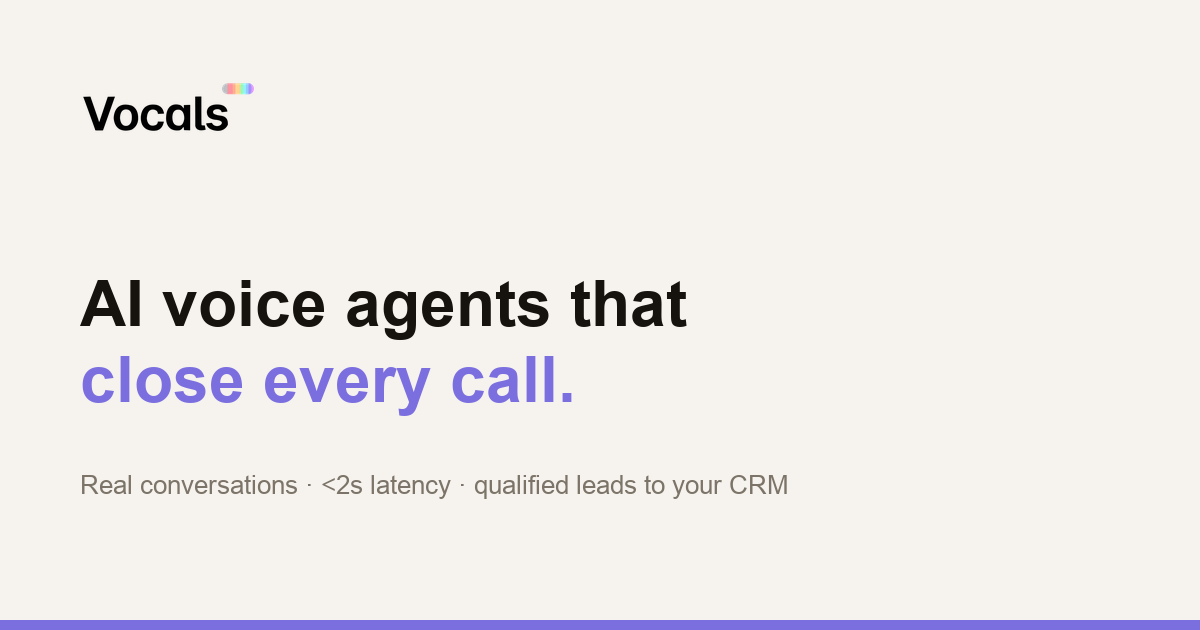
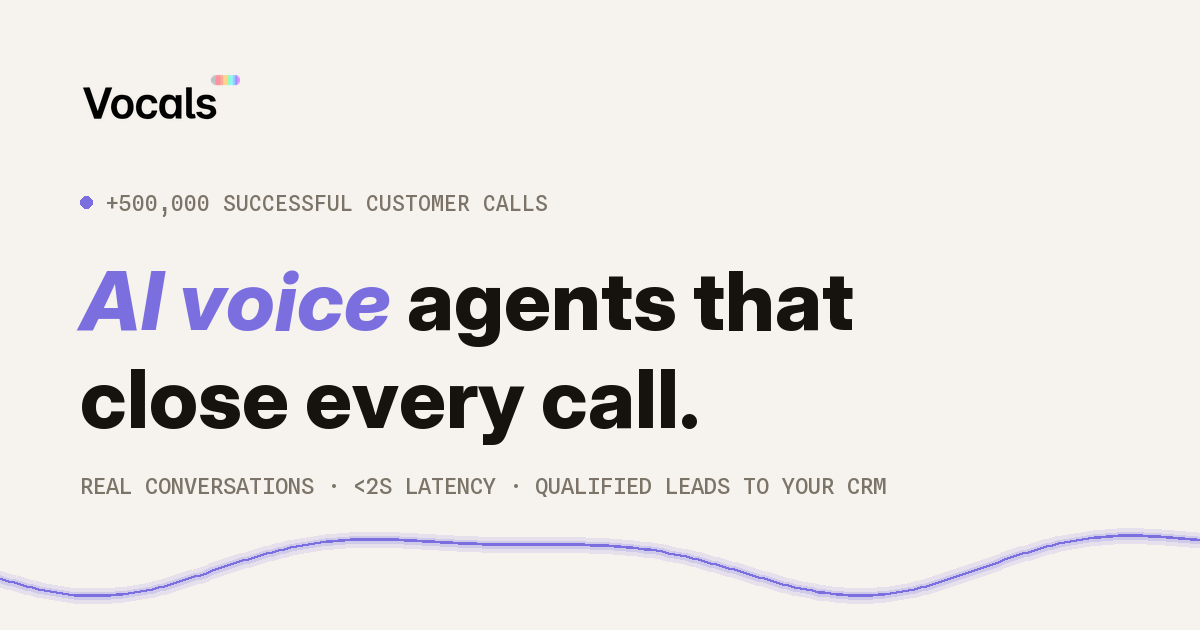
OG cards redesigned with real brand fonts (Inter/Spline Mono) + neon wave; Spanish card for /es

diff --git a/es/index.html b/es/index.html
@@ -10,7 +10,8 @@
 <meta property="og:title" content="Vocals · Agentes de voz IA que cierran cada llamada">
 <meta property="og:description" content="Conversaciones reales, menos de 2 segundos de latencia y leads calificados directos a tu CRM.">
 <meta property="og:url" content="https://usevocals.com/es/">
-<meta property="og:image" content="https://usevocals.com/og-image.png">
+<meta property="og:image" content="https://usevocals.com/og-image-es.png">
+<meta property="og:locale" content="es_ES">
 <meta name="twitter:card" content="summary_large_image">
 <link rel="icon" href="/favicon.ico" sizes="any">
 <link rel="icon" type="image/png" href="/favicon-32.png" sizes="32x32">

diff --git a/index.html b/index.html
@@ -12,6 +12,7 @@
 <meta property="og:url" content="https://usevocals.com/">
 <meta property="og:image" content="https://usevocals.com/og-image.png">
 <meta name="twitter:card" content="summary_large_image">
+<meta property="og:locale" content="en_US">
 <link rel="icon" href="/favicon.ico" sizes="any">
 <link rel="icon" type="image/png" href="/favicon-32.png" sizes="32x32">
 <link rel="apple-touch-icon" href="/apple-touch-icon.png">